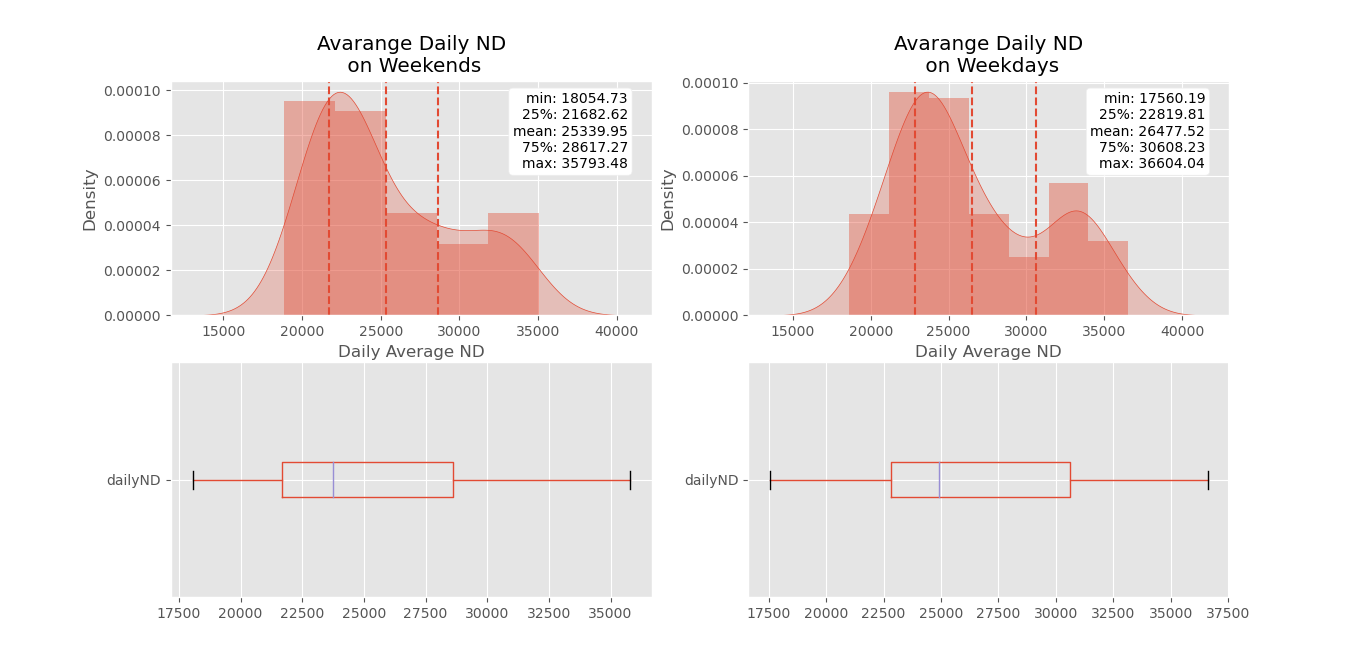
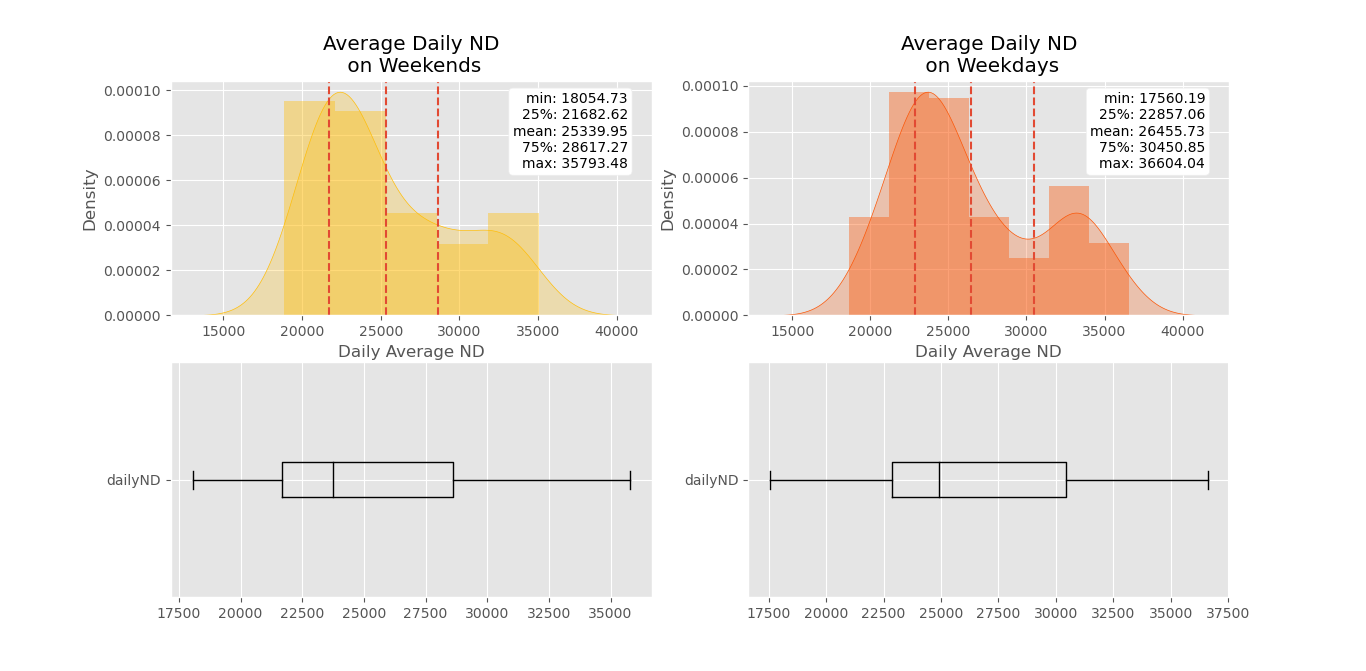
Refactored things

diff --git a/Model.py b/Model.py
@@ -11,17 +11,111 @@ import statsmodels.api as sm
 ## for machine learning
 from sklearn import model_selection, preprocessing, feature_selection, ensemble, linear_model, metrics, decomposition
 ## for explainer
-from lime import lime_tabular
 from datetime import datetime
 from sklearn.linear_model import LinearRegression
 
-ESO_Data = pd.read_csv("modelDataSet.csv", index=False)
+plt.style.use('ggplot')
+#plt.style.use('dark_background')
+ESO_Data = pd.read_csv("modelDataSet.csv")
 ESO_Data = ESO_Data.rename(columns={"dailyND":"Y"})
+##Feature Selection 
 
+ESO_Data = ESO_Data.drop('dailyND2019', 1)
+ESO_Data = ESO_Data.drop('Week_Day', 1)
+ESO_Data = ESO_Data.drop('SETTLEMENT_DATE', 1)
+ESO_Data = ESO_Data.drop('Unnamed: 0', 1)
+
+print(ESO_Data.head())
+##Preprocessing 
+##Should scale the data
+
+## scale X
+ESO_Data_scalerX = preprocessing.RobustScaler(quantile_range=(25.0, 75.0))
+X = ESO_Data_scalerX.fit_transform(ESO_Data.drop("Y", axis=1))
+ESO_Data_scaled= pd.DataFrame(X, columns=ESO_Data.drop("Y", axis=1).columns, index=ESO_Data.index)
+## scale Y
+ESO_Data_scalerY = preprocessing.RobustScaler(quantile_range=(25.0, 75.0))
+ESO_Data_scaled["Y"] = ESO_Data_scalerY.fit_transform(ESO_Data["Y"].values.reshape(-1,1))
+#print(dtf_scaled.head())
+
+#ESO_Data = dtf_scaled
+
+
+
+##*************Set-Up***************
 ## split data
-ESO_train, ESO_test = model_selection.train_test_split(ESO_Data, 
-                      test_size=0.3)
+ESO_train, ESO_test = model_selection.train_test_split(ESO_Data,test_size=0.3)
 ## print info
-print("X_train shape:", ESO_train.drop("Y",axis=1).shape, "| X_test shape:", ESO_test.drop("Y",axis=1).shape)
-print("y_train mean:", round(np.mean(ESO_train["Y"]),2), "| y_test mean:", round(np.mean(ESO_test["Y"]),2))
-print(ESO_train.shape[1], "features:", ESO_train.drop("Y",axis=1).columns.to_list())
+
+X_names = ['London_Avg_Temp', 'dailyND2019Adj']
+X_train = ESO_train[X_names].values
+y_train = ESO_train["Y"].values
+X_test = ESO_test[X_names].values
+y_test = ESO_test["Y"].values
+
+## call model
+model = linear_model.LinearRegression()
+## K fold validation
+scores = []
+#Breaks training data into 5 chunks and shuffels them 
+cv = model_selection.KFold(n_splits=5, shuffle=True)
+fig = plt.figure()
+i = 1
+colours = ["#ffbe0b","#fb5607","#ff006e","#8338ec","#3a86ff"]
+##*************train***************
+#Loop through the 5 chunks fitting the model and making a prediction
+for train, test in cv.split(X_train, y_train):
+    model = model.fit(X_train[train],y_train[train])
+    prediction = model.predict(X_train[test])
+    trueValue = y_train[test]
+    score = metrics.r2_score(trueValue, prediction)
+    scores.append(score)
+	#ittrativly add the scatter plots
+    plt.scatter(prediction, trueValue , lw=2, alpha=0.75,label='Fold %d (R2 = %0.2f)' % (i,score), c = colours[i-1])
+    print(model.coef_)
+    i += 1
+plt.plot([min(y_train),max(y_train)], [min(y_train),max(y_train)],linestyle='--', lw=2, color='#013220')
+plt.xlabel('Predicted Value')
+plt.ylabel('True Value')
+plt.title('K-Fold Validation on training set')
+plt.legend()
+#plt.show()
+
+##*************Test***************
+predicted = model.predict(X_test)
+print(model.coef_)
+
+## Key Performance Indicators
+print("R2 (explained variance):", round(metrics.r2_score(y_test, predicted), 2))
+print("Mean Absolute Perc Error (Σ(|y-pred|/y)/n):", round(np.mean(np.abs((y_test-predicted)/predicted)), 2))
+print("Mean Absolute Error (Σ|y-pred|/n):", "{:,.0f}".format(metrics.mean_absolute_error(y_test, predicted)))
+print("Root Mean Squared Error (sqrt(Σ(y-pred)^2/n)):", "{:,.0f}".format(np.sqrt(metrics.mean_squared_error(y_test, predicted))))
+## residuals
+residuals = y_test - predicted
+max_error = max(residuals) if abs(max(residuals)) > abs(min(residuals)) else min(residuals)
+max_idx = list(residuals).index(max(residuals)) if abs(max(residuals)) > abs(min(residuals)) else list(residuals).index(min(residuals))
+max_true, max_pred = y_test[max_idx], predicted[max_idx]
+print("Max Error:", "{:,.0f}".format(max_error))
+
+
+## Plot predicted vs true Vale
+fig, ax = plt.subplots(nrows=1, ncols=2)
+from statsmodels.graphics.api import abline_plot
+ax[0].scatter(predicted, y_test, color="black")
+abline_plot(intercept=0, slope=1, color=colours[0], ax=ax[0])
+ax[0].vlines(x=max_pred, ymin=max_true, ymax=max_true-max_error, color=colours[0], linestyle='--', alpha=0.7, label="max error")
+ax[0].grid(True)
+ax[0].set(xlabel="Predicted", ylabel="True Value", title="Predicted vs True")
+ax[0].legend()
+    
+## Plot predicted vs residuals
+ax[1].scatter(predicted, residuals, color="red")
+ax[1].vlines(x=max_pred, ymin=0, ymax=max_error, color=colours[1], linestyle='--', alpha=0.7, label="max error")
+ax[1].grid(True)
+ax[1].set(xlabel="Predicted", ylabel="Residuals", title="Predicted vs Residuals")
+ax[1].hlines(y=0, xmin=np.min(predicted), xmax=np.max(predicted))
+ax[1].legend()
+plt.show()
+
+
+

diff --git a/dataAnalysis.py b/dataAnalysis.py
@@ -57,6 +57,16 @@ print("")
 #******************Graphs***********************
 plt.style.use('ggplot')
 
+
+
+fig = plt.figure()
+ax = plt.axes()
+ax.axes.get_xaxis().set_ticks([])
+ax.set_title('Average ND each day in 2020')
+ax.plot(ESO_Data['SETTLEMENT_DATE'], ESO_Data['dailyND']);
+
+
+
 fig, ax = plt.subplots(nrows=2, ncols=2,  sharex=False, sharey=False)
 #fig.suptitle(x, fontsize=20)
 x = "dailyND"
@@ -65,17 +75,17 @@ WeekEndData = ESO_Data[ESO_Data["Week_Day"]==0].dailyND
 	
 
 tmp_dtf = pd.DataFrame(WeekEndData)
-tmp_dtf.boxplot(column="dailyND",vert=False, ax=ax[1][0])
+tmp_dtf.boxplot(column="dailyND",vert=False, ax=ax[1][0], color="#000000")
 	
 
 tmp_dtf = pd.DataFrame(weekDayData)
-tmp_dtf.boxplot(column="dailyND",vert=False, ax=ax[1][1])	
+tmp_dtf.boxplot(column="dailyND",vert=False, ax=ax[1][1], color="#000000")	
 
-ax[0][0].title.set_text('Avarange Daily ND\n on Weekends')
+ax[0][0].title.set_text('Average Daily ND\n on Weekends')
 variable = WeekEndData.fillna(WeekEndData.mean())
 breaks = np.quantile(variable, q=np.linspace(0, 1, 11))
 variable = variable[ (variable > breaks[0]) & (variable < breaks[10]) ]
-sns.distplot(variable, hist=True, kde=True, kde_kws={"shade": True}, axlabel = "Daily Average ND",ax=ax[0][0])
+sns.distplot(variable, hist=True, kde=True, kde_kws={"shade": True}, axlabel = "Daily Average ND",ax=ax[0][0], color="#ffbe0b")
 des = WeekEndData.describe()
 ax[0][0].axvline(des["25%"], ls='--')
 ax[0][0].axvline(des["mean"], ls='--')
@@ -85,11 +95,11 @@ des = round(des, 2).apply(lambda x: str(x))
 box = '\n'.join(("min: "+des["min"], "25%: "+des["25%"], "mean: "+des["mean"], "75%: "+des["75%"], "max: "+des["max"]))
 ax[0][0].text(0.95, 0.95, box, transform=ax[0][0].transAxes, fontsize=10, va='top', ha="right", bbox=dict(boxstyle='round', facecolor='white', alpha=1))
 
-ax[0][1].title.set_text('Avarange Daily ND\n on Weekdays')
+ax[0][1].title.set_text('Average Daily ND\n on Weekdays')
 variable = weekDayData.fillna(weekDayData.mean())
 breaks = np.quantile(variable, q=np.linspace(0, 1, 11))
 variable = variable[ (variable > breaks[0]) & (variable < breaks[10]) ]
-sns.distplot(variable, hist=True, kde=True, kde_kws={"shade": True}, axlabel = "Daily Average ND", ax=ax[0][1])
+sns.distplot(variable, hist=True, kde=True, kde_kws={"shade": True}, axlabel = "Daily Average ND", ax=ax[0][1], color="#fb5607")
 des = weekDayData.describe()
 ax[0][1].axvline(des["25%"], ls='--')
 ax[0][1].axvline(des["mean"], ls='--')
@@ -99,12 +109,36 @@ des = round(des, 2).apply(lambda x: str(x))
 box = '\n'.join(("min: "+des["min"], "25%: "+des["25%"], "mean: "+des["mean"], "75%: "+des["75%"], "max: "+des["max"]))
 ax[0][1].text(0.95, 0.95, box, transform=ax[0][1].transAxes, fontsize=10, va='top', ha="right", bbox=dict(boxstyle='round', facecolor='white', alpha=1))
 
+
+fig, ax = plt.subplots(nrows=1, ncols=2)
+
+ax[0].scatter(ESO_Data["dailyND"], ESO_Data["dailyND2019"], color="#fb5607")
+#ax[0].vlines(x=max_pred, ymin=0, ymax=max_error, color='black', linestyle='--', alpha=0.7, label="max error")
+ax[0].grid(True)
+ax[0].set(xlabel="2020 ND", ylabel="2019 ND", title="Each day in 2020 Average ND \ncompared to 2019 ND")
+
+box = "Correlation: "+ str(correlation2020_2019)
+ax[0].text(0.6, 0.975, box, transform=ax[0].transAxes, fontsize=10, va='top', ha="right", bbox=dict(boxstyle='round', facecolor='white', alpha=1))
+
+ax[0].hlines(y=ESO_Data["dailyND"].min(), xmin=np.min(ESO_Data["dailyND"]), xmax=np.max(ESO_Data["dailyND"]))
+ax[0].legend()
+
+
+ax[1].scatter(ESO_Data["dailyND"], ESO_Data["dailyND2019Adj"], color="#ffbe0b")
+ax[1].grid(True)
+ax[1].set(xlabel="2020 ND", ylabel="2019 ND Adjusted", title="Each day in 2020 Average ND compared to 2019 ND\n Shifted a day forward")
+
+box = "Correlation: "+ str(correlation2020_2019Adj)
+ax[1].text(0.6, 0.975, box, transform=ax[1].transAxes, fontsize=10, va='top', ha="right", bbox=dict(boxstyle='round', facecolor='white', alpha=1))
+
+ax[1].hlines(y=ESO_Data["dailyND"].min(), xmin=np.min(ESO_Data["dailyND"]), xmax=np.max(ESO_Data["dailyND"]))
+ax[1].legend()
 plt.show()
 
 
 #plt.show()
 
-#plt.title('Average Daily National Demand Against \nAvarage Daily Temperature in London')
+#plt.title('Average Daily National Demand Against \naverage Daily Temperature in London')
 #sns.regplot(x=ESO_Data['dailyND'],y=ESO_Data['Week_Day'])
 #plt.show()
 

diff --git a/generateModelData.py b/generateModelData.py
@@ -30,7 +30,7 @@ def getWeekDay():
 		dayOfWeek=0
 		return 0
 		
-#Take Avarage Demand for each SETTLEMENT_DATE
+#Take average Demand for each SETTLEMENT_DATE
 for index, row in ESO_Data.iterrows():
 	date = datetime.strptime(row["SETTLEMENT_DATE"], '%d-%b-%Y')
 	#initilise date <--could be refactored
